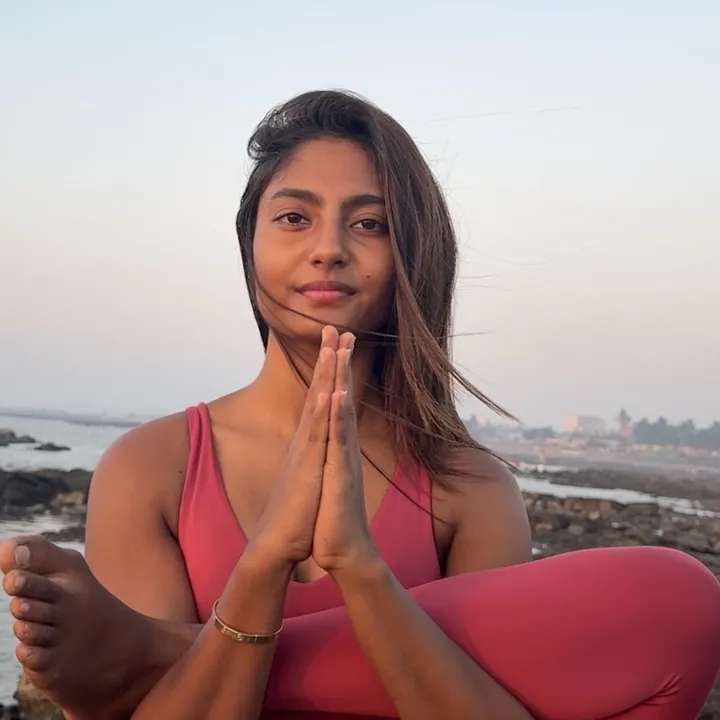
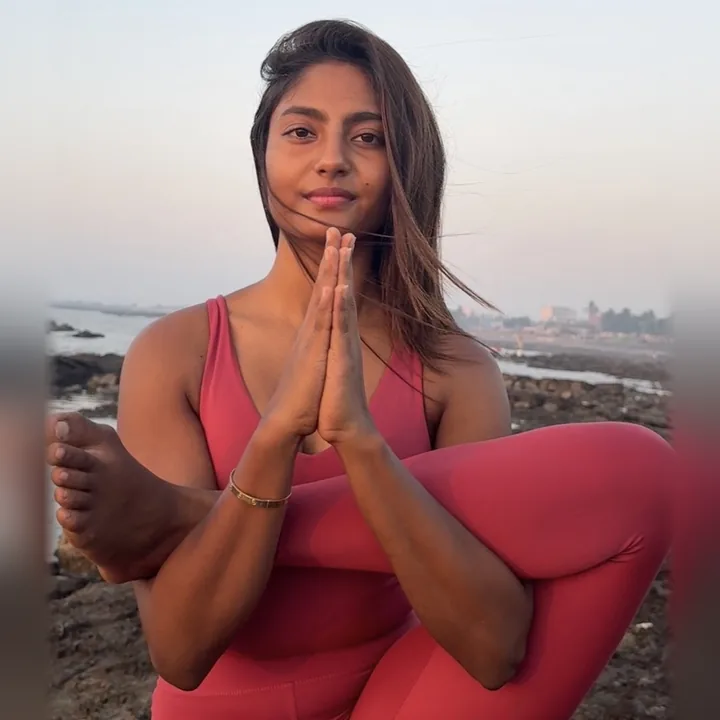
fix(foyo): teacher pages alike: instagram under every name, no stray text; nafisa's sea photo whole
Claude-Session: https://claude.ai/code/session_01982o6NkfeL8HRL76iLSEMg

diff --git a/somaflow/preview/app.js b/somaflow/preview/app.js
@@ -363,10 +363,10 @@
       quote: "здоровье — это не стать кем-то другим. это понять себя, найти баланс, стать сильнее и создать жизнь, в которой тебе хорошо в своём теле." },
   };
   const TEAM = [
-    { id: "paul", name: "paul", role: "paul", img: "/photos/foyo-old-snow.webp", alt: "paul brinkmann meditating bare-chested in the snow",
+    { id: "paul", name: "paul", role: "paul", igs: ["brinkbuild"], book: true, img: "/photos/foyo-old-snow.webp", alt: "paul brinkmann meditating bare-chested in the snow",
 },
     { id: "nafisa", name: "nafisa", role: "nafisa", img: "/photos/foyo-nafisa.webp?v=2", alt: "nafisa in a standing split, eyes closed, by the sea",
-      pics: [["/photos/foyo-nafisa-namaste.webp", "nafisa by the sea, hands together, one leg drawn up in her arms"]],
+      pics: [["/photos/foyo-nafisa-namaste.webp?v=2", "nafisa by the sea, hands together at her chin, one leg drawn up across her arms"]],
       igs: ["kohtao_yoga", "yogawithnafisa"],
       bio: NAFISA },
     { soon: true },
@@ -532,14 +532,15 @@
     if (!box) return;
     const m = TEAM.find((x) => x.id === box.dataset.teacher);
     if (!m) return;
-    box.replaceChildren(
+    box.replaceChildren(...[
       el("a", { class: "back", href: "/preview/" }, "← " + c("back")),
       el("figure", { class: "photo" }, el("span", { class: "photo-circle" }, el("img", { src: m.img, alt: m.alt, width: "720", height: "720", decoding: "async" }))),
       el("h1", {}, m.name),
       el("p", { class: "rl" }, c(m.role)),
       // instagram: a small mark and the handle, never a big button
-      m.igs ? el("p", { class: "igs" }, igMark(), m.igs.map((h, i) => [i ? el("span", { "aria-hidden": "true" }, "·") : null, el("a", { href: "https://www.instagram.com/" + h + "/", target: "_blank", rel: "noopener noreferrer" }, "@" + h)]))
-        : el("p", { class: "igs" }, el("a", { href: "/preview/#book" }, c("sessions") + " →")));
+      m.igs ? el("p", { class: "igs" }, igMark(), m.igs.flatMap((h, i) => [i ? el("span", { "aria-hidden": "true" }, "·") : null, el("a", { href: "https://www.instagram.com/" + h + "/", target: "_blank", rel: "noopener noreferrer" }, "@" + h)]))
+        : null,
+      m.book ? el("p", { class: "igs" }, el("a", { href: "/preview/#book" }, c("sessions") + " →")) : null].filter(Boolean));
     renderBio(m);
   }
   // a teacher's own words, the same shape for everyone: a lead, who they are, their path, what they teach, their line
@@ -550,7 +551,7 @@
     const box = document.getElementById("bio");
     if (!box || !m.bio) return;
     const b = m.bio[st.lang] || m.bio.en;
-    box.replaceChildren(
+    box.replaceChildren(...[
       el("p", { class: "tag" }, b.tag),
       el("p", { class: "lead" }, b.lead),
       el("p", {}, b.bio),
@@ -561,7 +562,7 @@
       circ(m.pics[2]),
       el("h2", {}, b.teachesH), el("p", {}, b.teaches),
       el("h2", {}, b.wayH), el("p", {}, b.way),
-      el("blockquote", { class: "quote" }, el("p", {}, b.quote), el("cite", {}, "— " + m.name)));
+      el("blockquote", { class: "quote" }, el("p", {}, b.quote), el("cite", {}, "— " + m.name))].filter(Boolean));
   }
 
   // ---------- the page ----------

diff --git a/somaflow/nafisa/index.html b/somaflow/nafisa/index.html
@@ -162,6 +162,6 @@
     <span class="by">© paul brinkmann</span>
     <a class="ig" href="https://www.instagram.com/foyoclub/" target="_blank" rel="noopener noreferrer" aria-label="instagram · foyo club"><svg viewBox="0 0 24 24" width="20" height="20" aria-hidden="true"><rect x="3" y="3" width="18" height="18" rx="5" fill="none" stroke="currentColor" stroke-width="1.8"/><circle cx="12" cy="12" r="4" fill="none" stroke="currentColor" stroke-width="1.8"/><circle cx="17.4" cy="6.7" r="1" fill="currentColor"/></svg></a>
   </footer>
-  <script src="/preview/app.js?v=60"></script>
+  <script src="/preview/app.js?v=63"></script>
 </body>
 </html>

diff --git a/somaflow/paul/index.html b/somaflow/paul/index.html
@@ -163,6 +163,6 @@
     <span class="by">© paul brinkmann</span>
     <a class="ig" href="https://www.instagram.com/foyoclub/" target="_blank" rel="noopener noreferrer" aria-label="instagram · foyo club"><svg viewBox="0 0 24 24" width="20" height="20" aria-hidden="true"><rect x="3" y="3" width="18" height="18" rx="5" fill="none" stroke="currentColor" stroke-width="1.8"/><circle cx="12" cy="12" r="4" fill="none" stroke="currentColor" stroke-width="1.8"/><circle cx="17.4" cy="6.7" r="1" fill="currentColor"/></svg></a>
   </footer>
-  <script src="/preview/app.js?v=60"></script>
+  <script src="/preview/app.js?v=63"></script>
 </body>
 </html>

diff --git a/somaflow/preview/index.html b/somaflow/preview/index.html
@@ -175,6 +175,6 @@
     <span class="by">© paul brinkmann</span>
     <a class="ig" href="https://www.instagram.com/foyoclub/" target="_blank" rel="noopener noreferrer" aria-label="instagram · foyo club"><svg viewBox="0 0 24 24" width="20" height="20" aria-hidden="true"><rect x="3" y="3" width="18" height="18" rx="5" fill="none" stroke="currentColor" stroke-width="1.8"/><circle cx="12" cy="12" r="4" fill="none" stroke="currentColor" stroke-width="1.8"/><circle cx="17.4" cy="6.7" r="1" fill="currentColor"/></svg></a>
   </footer>
-  <script src="/preview/app.js?v=60"></script>
+  <script src="/preview/app.js?v=63"></script>
 </body>
 </html>
